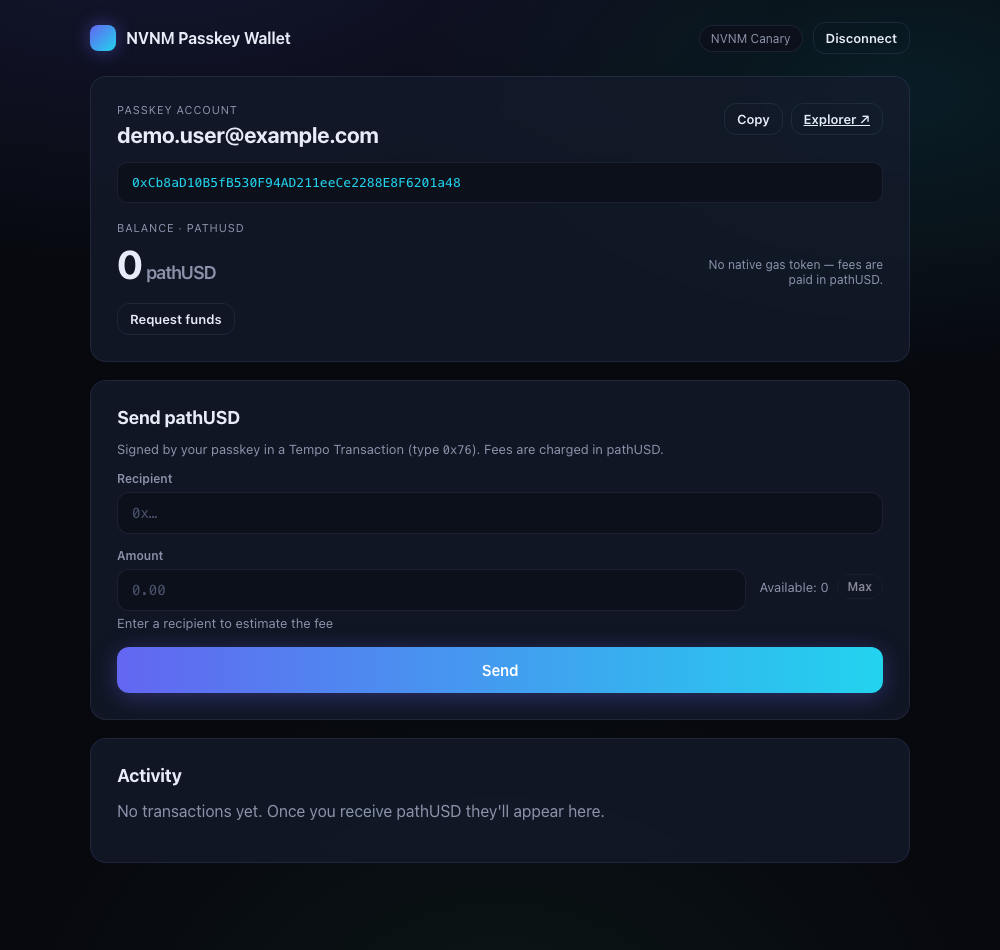
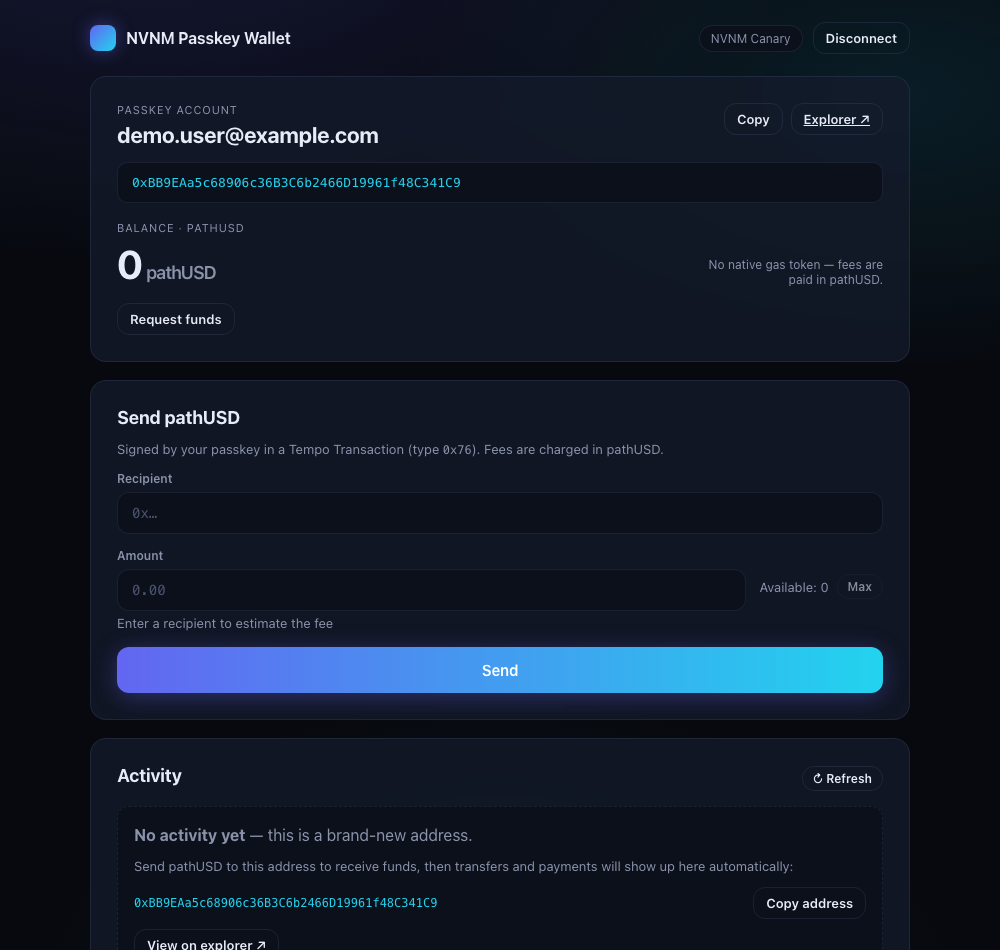
Activity: informative empty state + surfacing explorer failures
A brand-new passkey address has no on-chain activity, so the section now
explains that clearly and shows the receive address with copy + explorer
links, plus a refresh button. Explorer fetch failures are shown with a
retry prompt instead of silently looking like an empty account.

diff --git a/src/components/ActivityList.tsx b/src/components/ActivityList.tsx
@@ -1,20 +1,71 @@
-import { shortAddress, explorerTxUrl } from '../chain'
-import type { HistoryItem } from '../lib/client'
+import { useState } from 'react'
+import { shortAddress, explorerTxUrl, explorerAddressUrl } from '../chain'
+import type { HistoryResult } from '../lib/client'
 
 export function ActivityList({
-  items,
+  result,
   address,
+  onRefresh,
 }: {
-  items: HistoryItem[]
+  result: HistoryResult
   address: string
+  onRefresh: () => void
 }) {
+  const [copied, setCopied] = useState(false)
+  const items = result.items
+
+  async function copyAddress() {
+    try {
+      await navigator.clipboard.writeText(address)
+      setCopied(true)
+      setTimeout(() => setCopied(false), 1500)
+    } catch {
+      /* clipboard unavailable */
+    }
+  }
+
   return (
     <section className="card activity-card">
-      <h2>Activity</h2>
-      {items.length === 0 ? (
-        <p className="muted">
-          No transactions yet. Once you receive pathUSD they'll appear here.
-        </p>
+      <div className="activity-head">
+        <h2>Activity</h2>
+        <button className="btn ghost tiny" onClick={onRefresh} title="Refresh">
+          ↻ Refresh
+        </button>
+      </div>
+
+      {!result.ok ? (
+        <div className="activity-empty">
+          <p className="muted">
+            Couldn't load activity from the explorer right now.
+          </p>
+          <button className="btn ghost small" onClick={onRefresh}>
+            Try again
+          </button>
+        </div>
+      ) : items.length === 0 ? (
+        <div className="activity-empty">
+          <p className="muted">
+            <strong>No activity yet</strong> — this is a brand-new address.
+          </p>
+          <p className="muted small">
+            Send pathUSD to this address to receive funds, then transfers and
+            payments will show up here automatically:
+          </p>
+          <div className="receive-row">
+            <code className="receive-address">{address}</code>
+            <button className="btn ghost small" onClick={copyAddress}>
+              {copied ? 'Copied ✓' : 'Copy address'}
+            </button>
+          </div>
+          <a
+            className="btn ghost small"
+            href={explorerAddressUrl(address)}
+            target="_blank"
+            rel="noreferrer"
+          >
+            View on explorer ↗
+          </a>
+        </div>
       ) : (
         <ul className="activity">
           {items.map((t) => {
@@ -36,7 +87,11 @@ export function ActivityList({
                   </a>
                   <span className="muted small">
                     {incoming ? 'from' : 'to'}{' '}
-                    <span className="mono">{shortAddress(t.from === address ? t.to : t.from)}</span>
+                    <span className="mono">
+                      {shortAddress(
+                        t.from === address ? t.to : t.from,
+                      )}
+                    </span>
                   </span>
                 </div>
                 <div className="row-side">

diff --git a/src/lib/client.ts b/src/lib/client.ts
@@ -182,23 +182,40 @@ export type HistoryItem = {
   fee?: string
 }
 
+export type HistoryResult = {
+  items: HistoryItem[]
+  ok: boolean
+}
+
 export async function getHistory(
   address: string,
   limit = 20,
-): Promise<HistoryItem[]> {
-  const url = `${nvnmchain.blockExplorers!.default.url}/api/v2/addresses/${address}/transactions`
-  const res = await fetch(url)
-  if (!res.ok) return []
-  const data = await res.json()
-  const items: any[] = data?.items ?? []
-  return items.slice(0, limit).map((t) => ({
-    hash: t.hash,
-    from: t.from?.hash ?? '',
-    to: t.to?.hash ?? '',
-    status: t.status === 'ok' ? 'ok' : t.status === 'error' ? 'error' : 'pending',
-    timestamp: t.timestamp,
-    fee: t.fee?.value,
-  }))
+): Promise<HistoryResult> {
+  try {
+    const url = `${nvnmchain.blockExplorers!.default.url}/api/v2/addresses/${address}/transactions`
+    const res = await fetch(url)
+    if (!res.ok) return { items: [], ok: false }
+    const data = await res.json()
+    const items: any[] = data?.items ?? []
+    return {
+      items: items.slice(0, limit).map((t) => ({
+        hash: t.hash,
+        from: t.from?.hash ?? '',
+        to: t.to?.hash ?? '',
+        status:
+          t.status === 'ok'
+            ? 'ok'
+            : t.status === 'error'
+              ? 'error'
+              : 'pending',
+        timestamp: t.timestamp,
+        fee: t.fee?.value,
+      })),
+      ok: true,
+    }
+  } catch {
+    return { items: [], ok: false }
+  }
 }
 
 /** Attempts the Tempo faucet RPC (not enabled on this canary). */

diff --git a/src/components/Dashboard.tsx b/src/components/Dashboard.tsx
@@ -2,7 +2,7 @@ import { useCallback, useEffect, useState } from 'react'
 import type { StoredCredential } from '../lib/keystore'
 import type { WalletAccount } from '../lib/passkey'
 import { deriveAddress } from '../lib/passkey'
-import { getPathUsdBalance, getHistory, tryFaucet, type HistoryItem } from '../lib/client'
+import { getPathUsdBalance, getHistory, tryFaucet, type HistoryResult } from '../lib/client'
 import { formatUnits, shortAddress, explorerAddressUrl, explorerTxUrl, PATHUSD } from '../chain'
 import { SendPanel } from './SendPanel'
 import { ActivityList } from './ActivityList'
@@ -18,7 +18,7 @@ export function Dashboard({
 }) {
   const [address] = useState(() => deriveAddress(credential.publicKey))
   const [balance, setBalance] = useState<bigint | null>(null)
-  const [history, setHistory] = useState<HistoryItem[]>([])
+  const [history, setHistory] = useState<HistoryResult>({ items: [], ok: false })
   const [faucetMsg, setFaucetMsg] = useState<string | null>(null)
   const [copied, setCopied] = useState(false)
   const [refreshKey, setRefreshKey] = useState(0)
@@ -129,7 +129,7 @@ export function Dashboard({
           }}
         />
 
-        <ActivityList items={history} address={address} />
+        <ActivityList result={history} address={address} onRefresh={refresh} />
       </main>
     </div>
   )

diff --git a/src/styles.css b/src/styles.css
@@ -441,6 +441,45 @@ code,
 
 /* ---- Activity ---- */
 
+.activity-head {
+  display: flex;
+  justify-content: space-between;
+  align-items: center;
+}
+
+.activity-empty {
+  display: flex;
+  flex-direction: column;
+  align-items: flex-start;
+  gap: 10px;
+  margin-top: 14px;
+  padding: 16px;
+  border: 1px dashed var(--card-border);
+  border-radius: 12px;
+  background: var(--bg-soft);
+}
+
+.activity-empty p {
+  margin: 0;
+  line-height: 1.5;
+}
+
+.receive-row {
+  display: flex;
+  align-items: center;
+  gap: 10px;
+  width: 100%;
+  flex-wrap: wrap;
+}
+
+.receive-address {
+  flex: 1;
+  min-width: 0;
+  font-size: 12px;
+  color: var(--accent-2);
+  overflow-wrap: anywhere;
+}
+
 .activity {
   list-style: none;
   margin: 14px 0 0;
